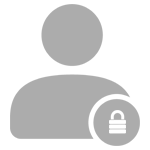
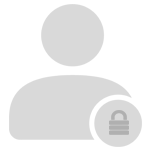
more style fixes

diff --git a/SOT-1026/index.html b/SOT-1026/index.html
@@ -202,9 +202,8 @@
         We found {{recordCount}} results for <strong>{{nameize fn}}{{#if mi}} {{uppercase mi}}{{/if}} {{nameize ln}}{{#notEqual state 'all'}} </strong> in <strong>{{uppercase state}}{{/notEqual}}!</strong> Choose a Result Below
       </h3>
       <p class="text-center">
-        <span class="bold">Next Steps:</span>
-        <span class="hidden-xs">Locate the person you are looking for in the results below or modify your search. Once you find the right match, click "That's The One" to access the report.</span>
-        <span class="visible-xs">Locate the person you are looking for in the results. Once you find the right match, click "Access."</span>
+        <span class="hidden-xs"><strong>Next Steps:</strong> Locate the person you are looking for in the results below or modify your search. Once you find the right match, click "That's The One" to access the report.</span>
+        <span class="visible-xs"><strong>Next Steps:</strong> Locate the person you are looking for in the results. Once you find the right match, click "Access."</span>
       </p>
     </div> <!-- /.row .section-header -->
   </div> <!-- #top-banner -->
@@ -237,10 +236,12 @@
                 <a href="#" class="name-found">{{fullName}}</a>
                 <div class="place-single">
                   {{place}}
+                  <br />
+                  {{place2}}
                 </div>
-                <div class="relative-single">
+                <!-- <div class="relative-single">
                   Related to <strong>{{relative}}</strong>
-                </div>
+                </div> -->
                 <div class="hidden-xs hidden-sm">
                   <ul class="aka-list list-unstyled">
                     {{#hasAkas}}

diff --git a/SOT-1026/css/styles.css b/SOT-1026/css/styles.css
@@ -2819,10 +2819,6 @@ span.highlight-text {
 }
 
 @media (min-width: 992px) {
-  .photo-locked {
-    width: 100%;
-  }
-
   .modal-dialog {
     width: 850px;
   }
@@ -2959,7 +2955,7 @@ span.highlight-text {
   #results-wrapper .container {
     padding: 0;
   }
-  
+
   p.alert {
     margin-left: 15px;
     margin-right: 15px;
@@ -2980,9 +2976,6 @@ span.highlight-text {
   }
   .no-results-icon img {
     width: 100px;
-  }
-  .report-col a {
-    font-size: 11px;
   }
   p.modal-top-text-big {
     font-size: 21px;

diff --git a/SOT-1026/js/teaserrecord.js b/SOT-1026/js/teaserrecord.js
@@ -309,6 +309,11 @@
       return (addresses && addresses.length !== 0) ? addresses[0] : '';
     };
 
+    TeaserRecord.prototype.place2 = function() {
+      var addresses = this.addresses();
+      return (addresses && addresses.length !== 0) ? addresses[1] : '';
+    };
+
     TeaserRecord.prototype.morePlacesCount = function() {
       if (this.addresses().length > 1) {
         return parseInt(this.addresses().length) - 1;

diff --git a/SOT-1026/js/runner.js b/SOT-1026/js/runner.js
@@ -440,7 +440,7 @@
 
     $('.navbar-toggle').click(function() {
       $('#nav-icon-closed').toggleClass('active');
-    })
+    });
 
     /* Init */
 
